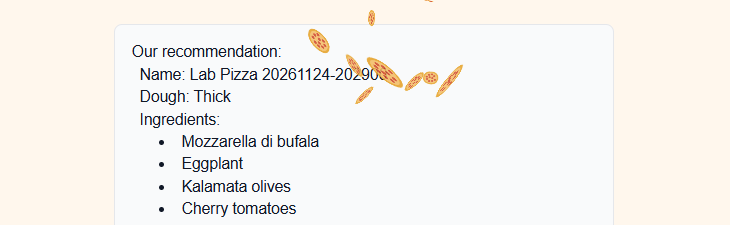
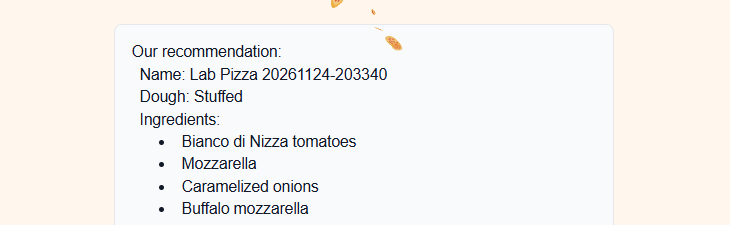
step 3.7

diff --git a/robot/log.html b/robot/log.html
@@ -2091,25 +2091,25 @@ storage = function () {
 window.output = {};
 </script>
 <script type="text/javascript">
-window.output["suite"] = [1,2,3,4,[],[1,0,7850],[],[[5,0,6,[],[],[1,399,7450],[[0,7,8,0,9,0,0,[],[1,400,3780],[[0,10,11,0,12,13,0,[],[1,400,2747],[[401,2,14]]],[0,15,11,0,16,17,0,[],[1,3148,376],[]],[0,18,11,0,19,20,0,[],[1,3524,640],[]],[0,21,11,0,22,23,0,[],[1,4164,17],[[4164,2,24]]]]],[0,25,8,0,26,0,0,[],[1,4181,317],[[0,27,11,0,28,29,0,[],[1,4182,53],[[4183,2,30]]],[0,31,11,0,32,33,0,[],[1,4235,219],[]],[0,34,11,0,35,36,0,[],[1,4456,12],[[4468,2,37]]],[0,34,11,0,35,38,0,[],[1,4468,8],[[4476,2,39]]],[0,34,11,0,35,40,0,[],[1,4477,10],[[4487,2,41]]],[0,34,11,0,35,42,0,[],[1,4487,11],[[4498,2,43]]]]],[0,44,45,0,46,47,48,[],[1,4499,0],[[4499,2,49]]],[0,50,51,0,52,53,54,[],[1,4499,1],[[4500,2,55]]],[0,56,8,0,57,58,0,[],[1,4500,387],[[0,59,11,0,60,61,0,[],[1,4500,64],[[4500,2,62]]],[0,63,11,0,64,65,0,[],[1,4565,75],[[4566,2,66]]],[0,67,11,0,68,40,0,[],[1,4640,64],[[4640,2,69]]],[0,59,11,0,60,70,0,[],[1,4705,80],[[4706,2,71]]],[0,72,11,0,73,61,0,[],[1,4785,19],[[4804,2,74]]],[0,75,11,0,76,65,0,[],[1,4805,52],[[4805,2,77],[4815,2,78]]],[0,79,11,0,80,40,0,[],[1,4858,15],[[4858,2,81]]],[0,72,11,0,73,70,0,[],[1,4874,13],[[4887,2,82]]]]],[0,83,11,0,84,85,0,[],[1,4887,66],[[4953,2,86]]],[0,87,8,0,88,0,0,[],[1,4953,505],[[0,89,11,0,90,91,0,[],[1,4953,54],[[4954,2,92]]],[0,93,11,0,94,95,0,[],[1,5007,451],[]]]],[0,96,8,0,97,98,99,[],[1,5459,50],[[0,100,11,0,101,102,0,[],[1,5459,13],[[5472,2,103]]],[0,104,8,0,105,0,99,[],[1,5472,18],[[0,106,11,0,107,108,109,[],[1,5473,16],[[5488,2,110]]],[0,111,112,0,113,114,99,[],[1,5488,0],[[5488,2,115]]],[8,0,0,0,0,99,0,[],[1,5489,0],[]],[5489,2,115]]],[0,116,51,0,117,118,0,[],[1,5489,2],[]],[0,119,8,0,120,0,121,[],[1,5492,16],[[0,106,11,0,107,122,109,[],[1,5492,14],[[5507,2,123]]],[0,111,112,0,113,124,121,[],[1,5507,1],[[5508,2,125]]],[8,0,0,0,0,121,0,[],[1,5508,0],[]],[5508,2,125]]],[0,126,51,0,127,128,0,[],[1,5508,1],[]],[8,0,0,0,0,99,0,[],[1,5509,0],[]],[5509,2,115]]],[0,129,11,0,130,131,0,[],[1,5509,115],[[5623,2,132]]],[2,133,11,0,134,0,0,[],[1,5623,2226],[]]]]],[],[1,1,0,0]];
+window.output["suite"] = [1,2,3,4,[],[1,0,10585],[],[[5,0,6,[],[],[1,466,10119],[[0,7,8,0,9,0,0,[],[1,467,4065],[[0,10,11,0,12,13,0,[],[1,468,2819],[[469,2,14]]],[0,15,11,0,16,17,0,[],[1,3288,370],[]],[0,18,11,0,19,20,0,[],[1,3658,862],[]],[0,21,11,0,22,23,0,[],[1,4520,12],[[4520,2,24]]]]],[0,25,8,0,26,0,0,[],[1,4533,317],[[0,27,11,0,28,29,0,[],[1,4533,51],[[4535,2,30]]],[0,31,11,0,32,33,0,[],[1,4585,222],[]],[0,34,11,0,35,36,0,[],[1,4807,13],[[4820,2,37]]],[0,34,11,0,35,38,0,[],[1,4821,11],[[4832,2,39]]],[0,34,11,0,35,40,0,[],[1,4832,10],[[4842,2,41]]],[0,34,11,0,35,42,0,[],[1,4842,8],[[4850,2,43]]]]],[0,44,45,0,46,47,48,[],[1,4850,1],[[4851,2,49]]],[0,50,51,0,52,53,54,[],[1,4851,0],[[4851,2,55]]],[0,56,8,0,57,58,0,[],[1,4851,419],[[0,59,11,0,60,61,0,[],[1,4852,59],[[4852,2,62]]],[0,63,11,0,64,65,0,[],[1,4911,79],[[4913,2,66]]],[0,67,11,0,68,40,0,[],[1,4990,56],[[4991,2,69]]],[0,59,11,0,60,70,0,[],[1,5046,84],[[5047,2,71]]],[0,72,11,0,73,61,0,[],[1,5130,32],[[5162,2,74]]],[0,75,11,0,76,65,0,[],[1,5162,70],[[5162,2,77],[5176,2,78]]],[0,79,11,0,80,40,0,[],[1,5232,19],[[5233,2,81]]],[0,72,11,0,73,70,0,[],[1,5252,18],[[5269,2,82]]]]],[0,83,11,0,84,85,0,[],[1,5270,75],[[5346,2,86]]],[0,87,8,0,88,0,0,[],[1,5346,513],[[0,89,11,0,90,91,0,[],[1,5347,66],[[5347,2,92]]],[0,93,11,0,94,95,0,[],[1,5412,446],[]]]],[0,96,8,0,97,98,99,[],[1,5859,82],[[0,100,11,0,101,102,0,[],[1,5860,19],[[5878,2,103]]],[0,104,8,0,105,0,99,[],[1,5878,25],[[0,106,11,0,107,108,109,[],[1,5879,23],[[5902,2,110]]],[0,111,112,0,113,114,99,[],[1,5902,1],[[5903,2,115]]],[8,0,0,0,0,99,0,[],[1,5903,0],[]],[5903,2,115]]],[0,116,51,0,117,118,0,[],[1,5904,1],[]],[0,119,8,0,120,0,121,[],[1,5908,30],[[0,106,11,0,107,122,109,[],[1,5909,28],[[5936,2,123]]],[0,111,112,0,113,124,121,[],[1,5937,0],[[5937,2,125]]],[8,0,0,0,0,121,0,[],[1,5937,1],[]],[5938,2,125]]],[0,126,51,0,127,128,0,[],[1,5938,1],[]],[8,0,0,0,0,99,0,[],[1,5940,0],[]],[5940,2,115]]],[0,129,11,0,130,131,0,[],[1,5941,120],[[6062,2,132]]],[0,133,8,0,134,0,0,[],[1,6063,528],[[0,89,11,0,90,135,0,[],[1,6063,92],[[6063,2,136]]],[0,93,11,0,94,137,0,[],[1,6154,436],[]]]],[0,83,11,0,84,138,0,[],[1,6590,98],[[6689,2,139]]],[0,140,8,0,141,142,0,[],[1,6690,1329],[[0,143,11,0,144,145,0,[],[1,6690,703],[[6690,2,146]]],[0,147,8,0,148,0,0,[],[1,7393,13],[[0,31,11,0,32,149,0,[],[1,7393,12],[]]]],[0,59,11,0,60,150,0,[],[1,7406,69],[[7406,2,151]]],[0,152,11,0,153,154,0,[],[1,7476,67],[[7476,2,155],[7504,2,156]]],[0,89,11,0,90,157,0,[],[1,7543,54],[[7544,2,158]]],[0,159,11,0,160,161,0,[],[1,7597,422],[]]]],[0,162,8,0,163,164,0,[],[1,8018,225],[[0,159,11,0,160,54,0,[],[1,8018,213],[]],[0,100,11,0,101,165,0,[],[1,8231,12],[[8243,2,166]]]]],[0,83,11,0,84,167,0,[],[1,8244,55],[[8298,2,168]]],[2,169,11,0,170,0,0,[],[1,8299,2286],[]]]]],[],[1,1,0,0]];
 </script>
 <script type="text/javascript">
 window.output["strings"] = [];
 </script>
 <script type="text/javascript">
[2 lines of base64/hex data omitted]
 </script>
 <script type="text/javascript">
-window.output["stats"] = [[{"elapsed":"00:00:07","fail":0,"label":"All Tests","pass":1,"skip":0}],[],[{"elapsed":"00:00:08","fail":0,"id":"s1","label":"Pizza Scenario","name":"Pizza Scenario","pass":1,"skip":0}]];
+window.output["stats"] = [[{"elapsed":"00:00:10","fail":0,"label":"All Tests","pass":1,"skip":0}],[],[{"elapsed":"00:00:11","fail":0,"id":"s1","label":"Pizza Scenario","name":"Pizza Scenario","pass":1,"skip":0}]];
 </script>
 <script type="text/javascript">
 window.output["errors"] = [];
 </script>
 <script type="text/javascript">
-window.output["baseMillis"] = 1795526935715;
+window.output["baseMillis"] = 1795527215327;
 </script>
 <script type="text/javascript">
-window.output["generated"] = 7870;
+window.output["generated"] = 10600;
 </script>
 <script type="text/javascript">
 window.output["expand_keywords"] = null;

diff --git a/robot/report.html b/robot/report.html
@@ -1918,7 +1918,7 @@ storage = function () {
 window.output = {};
 </script>
 <script type="text/javascript">
-window.output["suite"] = [1,2,3,4,[],[1,0,7850],[],[[5,0,6,[],[],[1,399,7450],[]]],[],[1,1,0,0]];
+window.output["suite"] = [1,2,3,4,[],[1,0,10585],[],[[5,0,6,[],[],[1,466,10119],[]]],[],[1,1,0,0]];
 </script>
 <script type="text/javascript">
 window.output["strings"] = [];
@@ -1927,13 +1927,13 @@ window.output["strings"] = [];
 window.output["strings"] = window.output["strings"].concat(["*","*Pizza Scenario","*C:\\Users\\Dell\\Desktop\\Year4\\sw validation\\ui-lab\\robot\\pizza_scenario.robot","*pizza_scenario.robot","*<p>Test case QP-01, A custom pizza reaches the admin list.\x3c/p>","*QP-01 A Custom Pizza Reaches The Admin List","*<p>A pizza request with restrictions gives a pizza that keeps them, rating needs a login, and the admin sees the pizza.\x3c/p>"]);
 </script>
 <script type="text/javascript">
-window.output["stats"] = [[{"elapsed":"00:00:07","fail":0,"label":"All Tests","pass":1,"skip":0}],[],[{"elapsed":"00:00:08","fail":0,"id":"s1","label":"Pizza Scenario","name":"Pizza Scenario","pass":1,"skip":0}]];
+window.output["stats"] = [[{"elapsed":"00:00:10","fail":0,"label":"All Tests","pass":1,"skip":0}],[],[{"elapsed":"00:00:11","fail":0,"id":"s1","label":"Pizza Scenario","name":"Pizza Scenario","pass":1,"skip":0}]];
 </script>
 <script type="text/javascript">
-window.output["baseMillis"] = 1795526935715;
+window.output["baseMillis"] = 1795527215327;
 </script>
 <script type="text/javascript">
-window.output["generated"] = 7870;
+window.output["generated"] = 10600;
 </script>
 <script type="text/javascript">
 window.output["expand_keywords"] = null;
